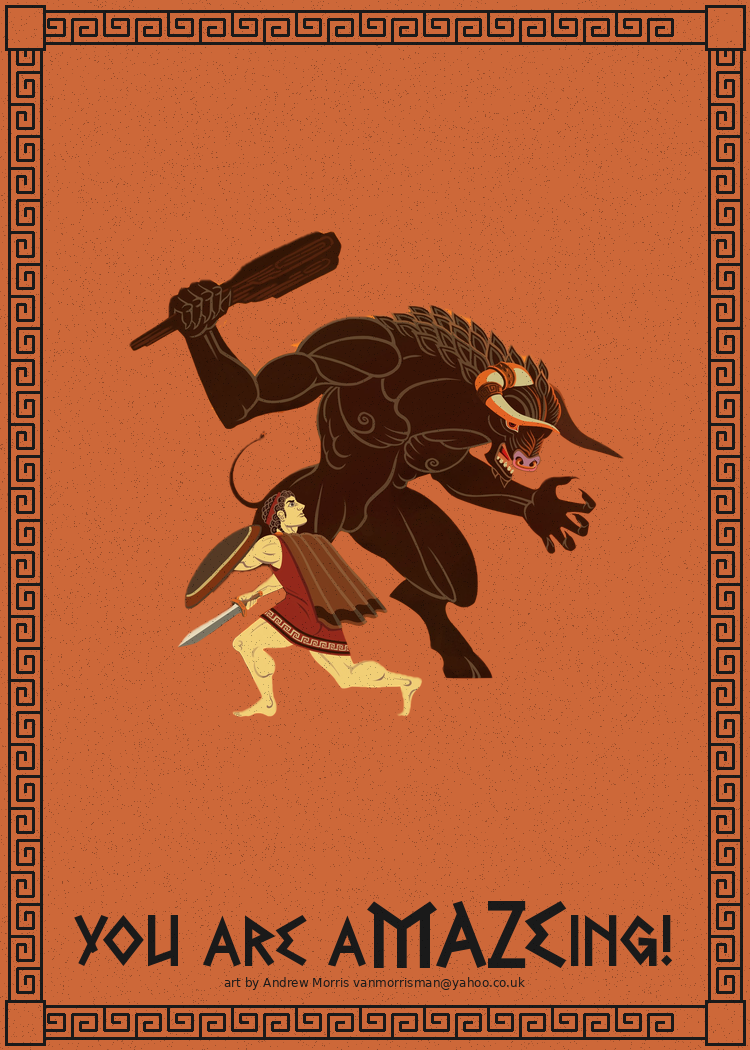
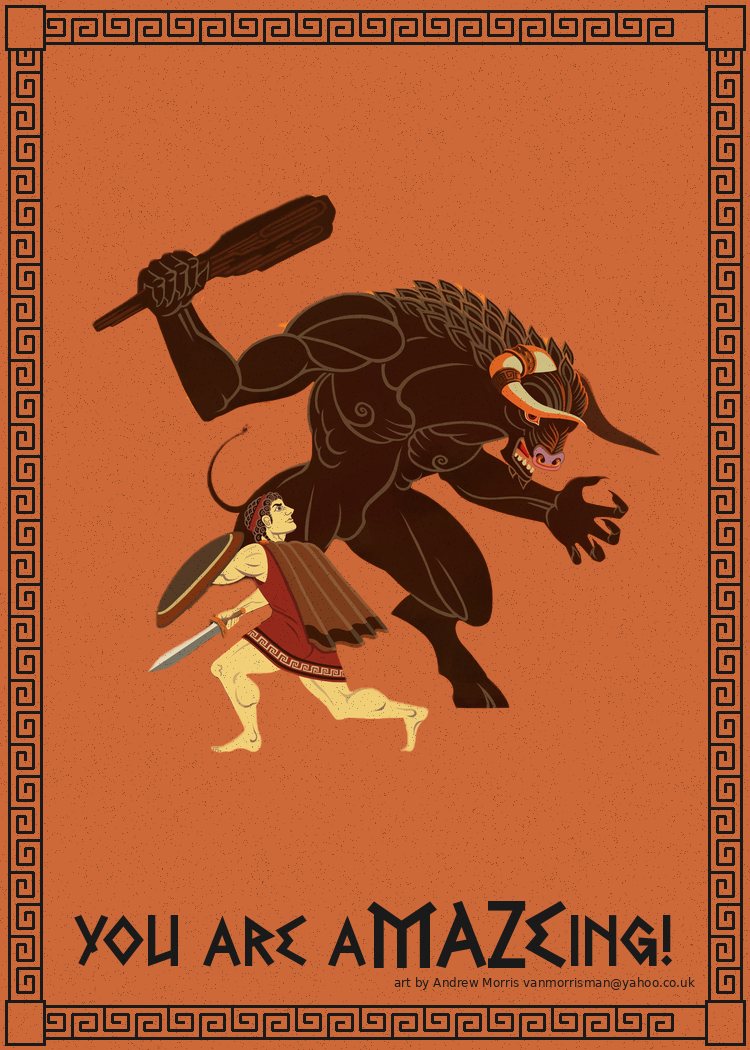
Make minotaur 15% larger and right-align artist credit

Changed region(s): [[0.1227, 0.1829, 0.8587, 0.7314], [0.3067, 0.9143, 0.92, 0.9448], [0.8587, 0.4267, 0.8893, 0.4571]]

diff --git a/src/greek_design_system.py b/src/greek_design_system.py
@@ -421,6 +421,10 @@ def generate_greek_card_front(
                 new_height = content_height
                 new_width = int(content_height * minotaur_ratio)
 
+            # Make minotaur 15% larger
+            new_width = int(new_width * 1.15)
+            new_height = int(new_height * 1.15)
+
             print(f"Resizing minotaur to: {new_width}x{new_height}")
             minotaur = minotaur.resize((new_width, new_height), Image.Resampling.LANCZOS)
 
@@ -516,10 +520,10 @@ def generate_greek_card_front(
         credit_font = ImageFont.load_default()
 
     credit_text = "art by Andrew Morris vanmorrisman@yahoo.co.uk"
-    # Center the credit text
+    # Right-align the credit text
     credit_bbox = draw.textbbox((0, 0), credit_text, font=credit_font)
     credit_width = credit_bbox[2] - credit_bbox[0]
-    credit_x = (width - credit_width) // 2
+    credit_x = width - credit_width - 55  # Right-aligned with margin
     draw.text((credit_x, height - 75), credit_text, fill=PALETTE.black, font=credit_font)
 
     # Add texture (after compositing)
